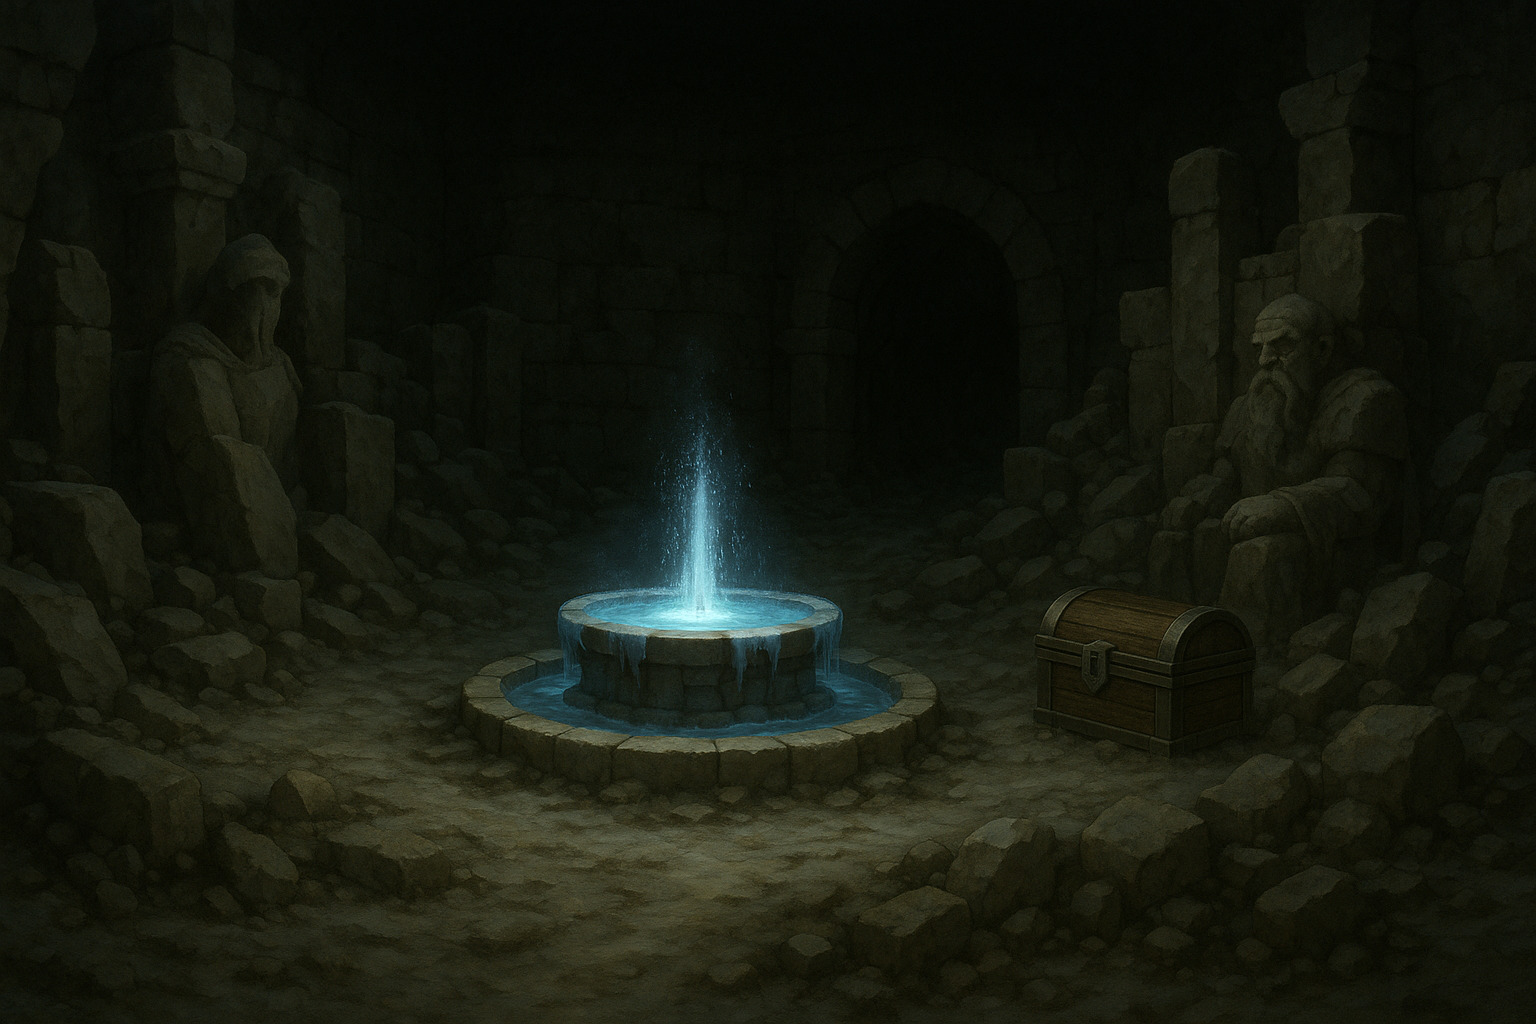
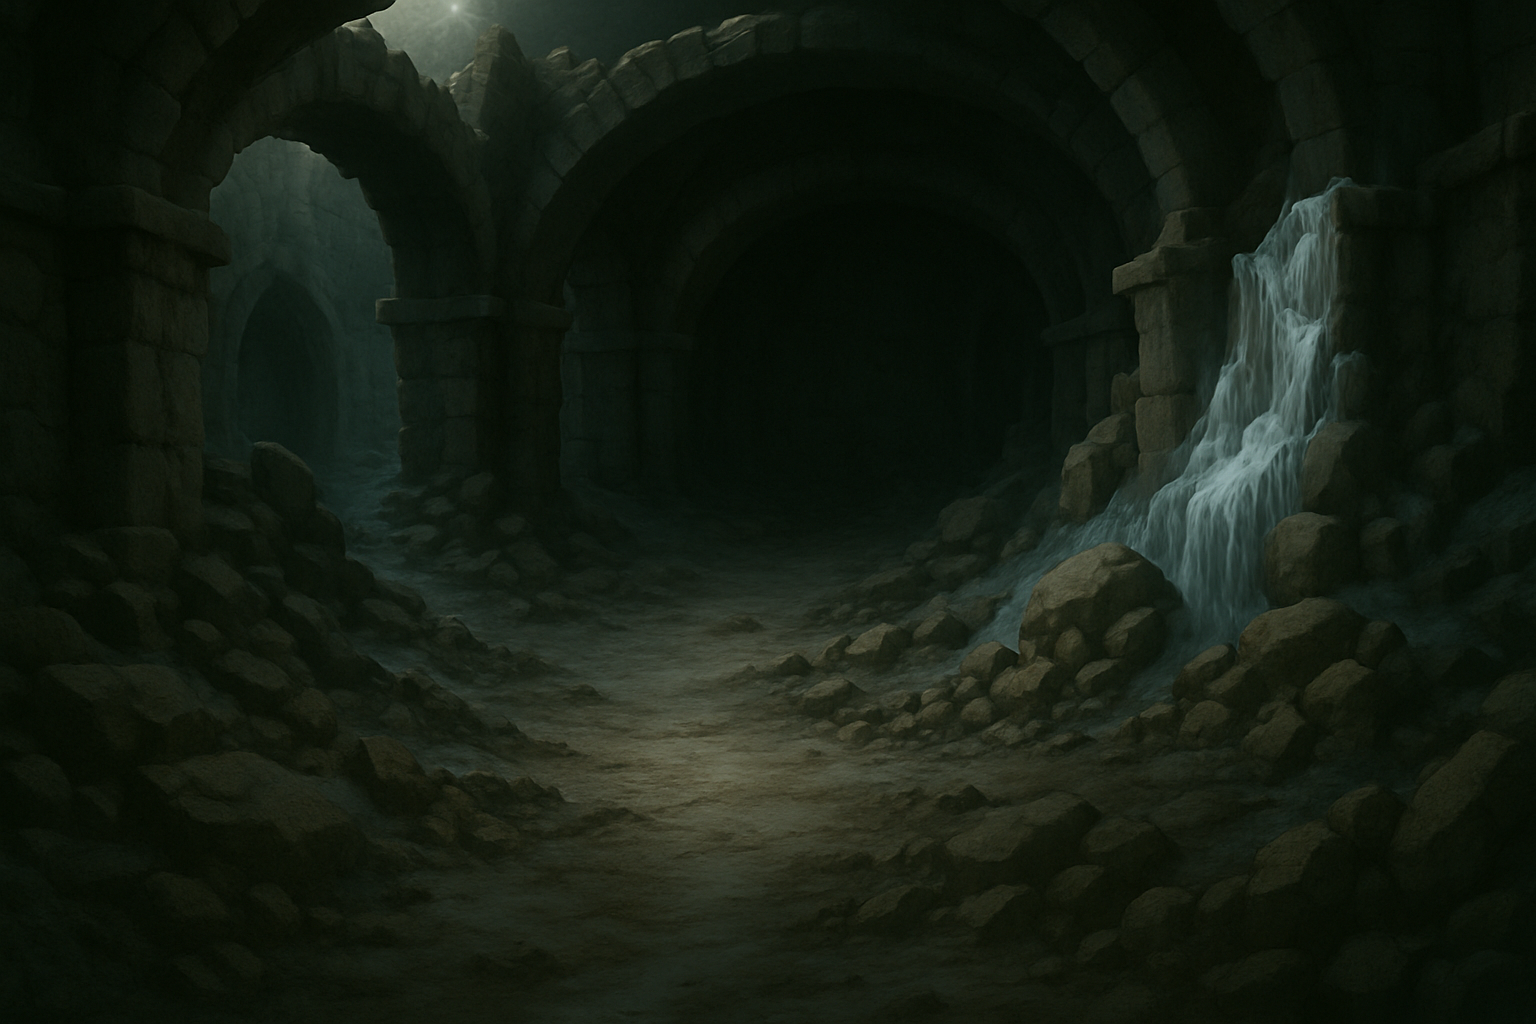
- Updated the Spire images - Created the Spire Floor 5

diff --git a/src/Components/FantasyWorldScreen/Components/SpireScreen/Components/SpireFloor5.jsx b/src/Components/FantasyWorldScreen/Components/SpireScreen/Components/SpireFloor5.jsx
@@ -6,18 +6,18 @@ import Choices from '../../../../Choices';
 import SpireBattle from '../../../../Battle/SpireBattle';
 import SpireMonsters from '../../../../Monster/SpireMonsters';
 
-import spireFloor4 from '../../../../../assets/images/SpireFloor4.png';
+import spireFloor5 from '../../../../../assets/images/SpireFloor5.png';
 
 import '../../../../../scss/All.scss';
 
-export default function SpireFloor4() {
+export default function SpireFloor5() {
   const navigate = useNavigate();
   const [battleEnd, setBattleEnd] = useState('');
 
   const continueChoices = [
     {
-      text: 'Flex Onward',
-      nextScene: '/spire-floor-5',
+      text: 'Head out of the cave',
+      nextScene: '/spire-floor-6',
     }
   ];
 
@@ -25,7 +25,7 @@ export default function SpireFloor4() {
     <div
       className='Screen Full-Screen Spire-Floor-Screen'
       style={{
-        backgroundImage: `url(${spireFloor4})`,
+        backgroundImage: `url(${spireFloor5})`,
         backgroundSize: 'contain',
         backgroundRepeat: 'no-repeat',
         backgroundPosition: 'center',
@@ -33,7 +33,7 @@ export default function SpireFloor4() {
     >
       {battleEnd !== 'win' && (
         <SpireBattle 
-          enemies={[SpireMonsters[2], SpireMonsters[2], SpireMonsters[2]]}
+          enemies={[SpireMonsters[4], SpireMonsters[4]]}
           battleEnd={battleEnd}
           setBattleEnd={setBattleEnd}
         />

diff --git a/src/App.jsx b/src/App.jsx
@@ -32,6 +32,7 @@ import SpireFloor1 from './Components/FantasyWorldScreen/Components/SpireScreen/
 import SpireFloor2 from './Components/FantasyWorldScreen/Components/SpireScreen/Components/SpireFloor2';
 import SpireFloor3 from './Components/FantasyWorldScreen/Components/SpireScreen/Components/SpireFloor3';
 import SpireFloor4 from './Components/FantasyWorldScreen/Components/SpireScreen/Components/SpireFloor4';
+import SpireFloor5 from './Components/FantasyWorldScreen/Components/SpireScreen/Components/SpireFloor5';
 
 export default function App() {
   return (
@@ -72,6 +73,12 @@ export default function App() {
           <Route path="/spire-floor-1" element={<SpireFloor1 />} />
           <Route path="/spire-floor-2" element={<SpireFloor2 />} />
           <Route path="/spire-floor-3" element={<SpireFloor3 />} />
+          <Route path="/spire-floor-4" element={<SpireFloor4 />} />
+          <Route path="/spire-floor-5" element={<SpireFloor5 />} />
+          <Route path="/spire-floor-4" element={<SpireFloor4 />} />
+          <Route path="/spire-floor-4" element={<SpireFloor4 />} />
+          <Route path="/spire-floor-4" element={<SpireFloor4 />} />
+          <Route path="/spire-floor-4" element={<SpireFloor4 />} />
           <Route path="/spire-floor-4" element={<SpireFloor4 />} />
         </Routes>
       </Router>

diff --git a/src/Components/FantasyWorldScreen/Components/SpireScreen/Components/SpireFloor3.jsx b/src/Components/FantasyWorldScreen/Components/SpireScreen/Components/SpireFloor3.jsx
@@ -6,7 +6,7 @@ import NPCChoices from '../../../../System/NPCChoices';
 import Items from '../../../../System/Items';
 import { useDanny } from '../../../../../Context/DannyContext';
 
-import spireFloor3 from '../../../../../assets/images/SpireFloor4.png'
+import spireFloor3 from '../../../../../assets/images/SpireFloor3.png';
 
 import '../../../../../scss/All.scss';
 

diff --git a/src/Components/FantasyWorldScreen/Components/SpireScreen/Components/SpireFloor1.jsx b/src/Components/FantasyWorldScreen/Components/SpireScreen/Components/SpireFloor1.jsx
@@ -6,7 +6,7 @@ import Choices from '../../../../Choices';
 import SpireBattle from '../../../../Battle/SpireBattle';
 import SpireMonsters from '../../../../Monster/SpireMonsters';
 
-import spireFloor1 from '../../../../../assets/images/SpireFloor1.png'
+import spireFloor1 from '../../../../../assets/images/SpireFloor1.png';
 
 import '../../../../../scss/All.scss';
 

diff --git a/src/Components/FantasyWorldScreen/Components/SpireScreen/Components/SpireFloor2.jsx b/src/Components/FantasyWorldScreen/Components/SpireScreen/Components/SpireFloor2.jsx
@@ -6,7 +6,7 @@ import Choices from '../../../../Choices';
 import SpireBattle from '../../../../Battle/SpireBattle';
 import SpireMonsters from '../../../../Monster/SpireMonsters';
 
-import spireFloor2 from '../../../../../assets/images/SpireFloor2.png'
+import spireFloor2 from '../../../../../assets/images/SpireFloor2.png';
 
 import '../../../../../scss/All.scss';
 
